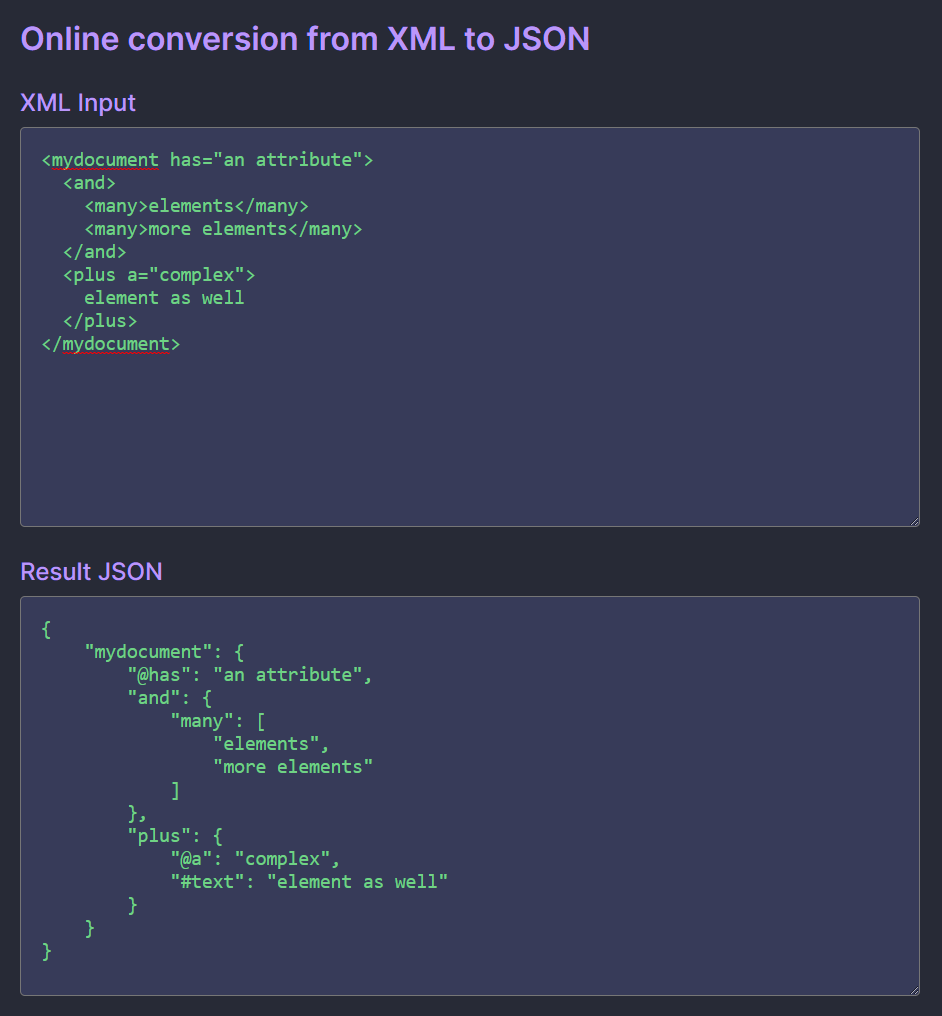
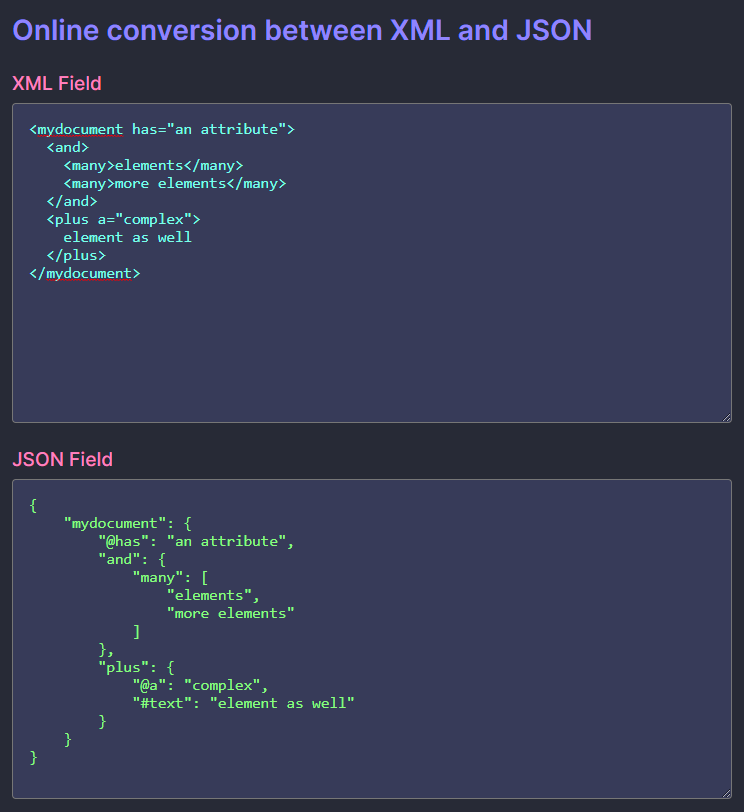
:sparkles: Two-way data conversion and improve colour scheme

diff --git a/templates/convert.html b/templates/convert.html
@@ -1,7 +1,7 @@
 <html>
 
 <head>
-    <title>Online conversion from XML to JSON</title>
+    <title>Online conversion between XML and JSON</title>
     <link rel="preconnect" href="https://fonts.googleapis.com">
     <link rel="preconnect" href="https://fonts.gstatic.com" crossorigin>
     <link href="https://fonts.googleapis.com/css2?family=Inter:wght@400;500;600&display=swap" rel="stylesheet">
@@ -11,7 +11,7 @@
         body {
             font-family: 'Inter', sans-serif;
             background: #282a36;
-            color: #bd93f9;
+            color: #9580ff;
         }
 
         .main {
@@ -24,15 +24,19 @@
             width: 100%;
             height: 400px;
             background: #383a59;
-            color: #71d385;
+            color: #8aff80;
             padding: 20px 20px 20px;
             border-radius: 0.25em;
             resize: both;
             font-size: 1.5em;
         }
 
+        .xml {
+            color: #80ffea;
+        }
+
         h2 {
-            font-size: 2em;
+            font-size: 2.2em;
             font-weight: 600;
             margin: 60px 0 0;
         }
@@ -46,50 +50,71 @@
             font-size: 1.5em;
             font-weight: 500;
             margin: 30px 0 10px;
+            color: #ff80bf;
         }
     </style>
 </head>
 
 <body>
     <div class="main">
-        <h2>Online conversion from XML to JSON</h2>
+        <h2>Online conversion between XML and JSON</h2>
         <form method="post">
             <section>
-                <label for="input_xml">XML Input</label>
-                <textarea id="input_xml" name="input_xml"></textarea>
+                <label for="input_xml">XML Field</label>
+                <textarea id="input_xml" name="input_xml" class="xml"></textarea>
             </section>
             <section>
-                <label for="output_json">Result JSON</label>
-                <textarea id="output_json" name="output_json" readonly="true"></textarea>
+                <label for="output_json">JSON Field</label>
+                <textarea id="output_json" name="output_json"></textarea>
             </section>
         </form>
     </div>
     <script type="text/javascript">
         const delay_ms = 500;
 
-        let input_textarea = document.querySelector("form textarea#input_xml");
-        let output_textarea = document.querySelector("form textarea#output_json");
+        let xml_textarea = document.querySelector("form textarea#input_xml");
+        let json_textarea = document.querySelector("form textarea#output_json");
 
-        function convert() {
-            if (!input_textarea.value) {
-                output_textarea.value = ""
+        function convertxml() {
+            if (!xml_textarea.value) {
+                json_textarea.value = ""
                 return;
             }
 
             let formData = new FormData();
 
-            formData.append('input_xml', input_textarea.value);
+            formData.append('input_xml', xml_textarea.value);
 
-            fetch("/convert", { method: 'POST', body: formData }).then((response) => {
+            fetch("/convertxml", { method: 'POST', body: formData }).then((response) => {
                 return response.json();
             }).then((json) => {
-                output_textarea.value = json['output_json'];
+                json_textarea.value = json['output_json'];
+            }).catch((error) => {
+                console.log('Error: ' + error.message);
+            });
+        }
+
+        function convertjson() {
+            if (!json_textarea.value) {
+                xml_textarea.value = ""
+                return;
+            }
+
+            let formData = new FormData();
+
+            formData.append('input_json', json_textarea.value);
+
+            fetch("/convertjson", { method: 'POST', body: formData }).then((response) => {
+                return response.json();
+            }).then((json) => {
+                xml_textarea.value = json['output_xml'];
             }).catch((error) => {
                 console.log('Error: ' + error.message);
             });
         }
         // Use lodash's throttle to limit the number of times the function is called
-        input_textarea.oninput = _.throttle(convert, delay_ms);
+        xml_textarea.oninput = _.throttle(convertxml, delay_ms);
+        json_textarea.oninput = _.throttle(convertjson, delay_ms);
     </script>
 </body>
 

diff --git a/main.py b/main.py
@@ -9,13 +9,22 @@ app = FastAPI()
 templates = Jinja2Templates(directory="templates")
 
 
-@app.post("/convert")
-async def convert(input_xml: str = Form(...)):
+@app.post("/convertxml")
+async def convertxml(input_xml: str = Form(...)):
     try:
-        output = json.dumps(xmltodict.parse(input_xml), indent=4)
+        output_json = json.dumps(xmltodict.parse(input_xml), indent=4)
     except xml.parsers.expat.ExpatError:
-        output = "Error: Invalid XML"
-    return {"input_xml": input_xml, "output_json": output}
+        output_json = "Error: Invalid XML"
+    return {"input_xml": input_xml, "output_json": output_json}
+
+
+@app.post("/convertjson")
+async def convert(input_json: str = Form(...)):
+    try:
+        output_xml = xmltodict.unparse(json.loads(input_json), pretty=True)
+    except json.decoder.JSONDecodeError:
+        output_xml = "Error: Invalid JSON"
+    return {"output_xml": output_xml, "input_json": input_json}
 
 
 @app.get("/", response_class=HTMLResponse)
